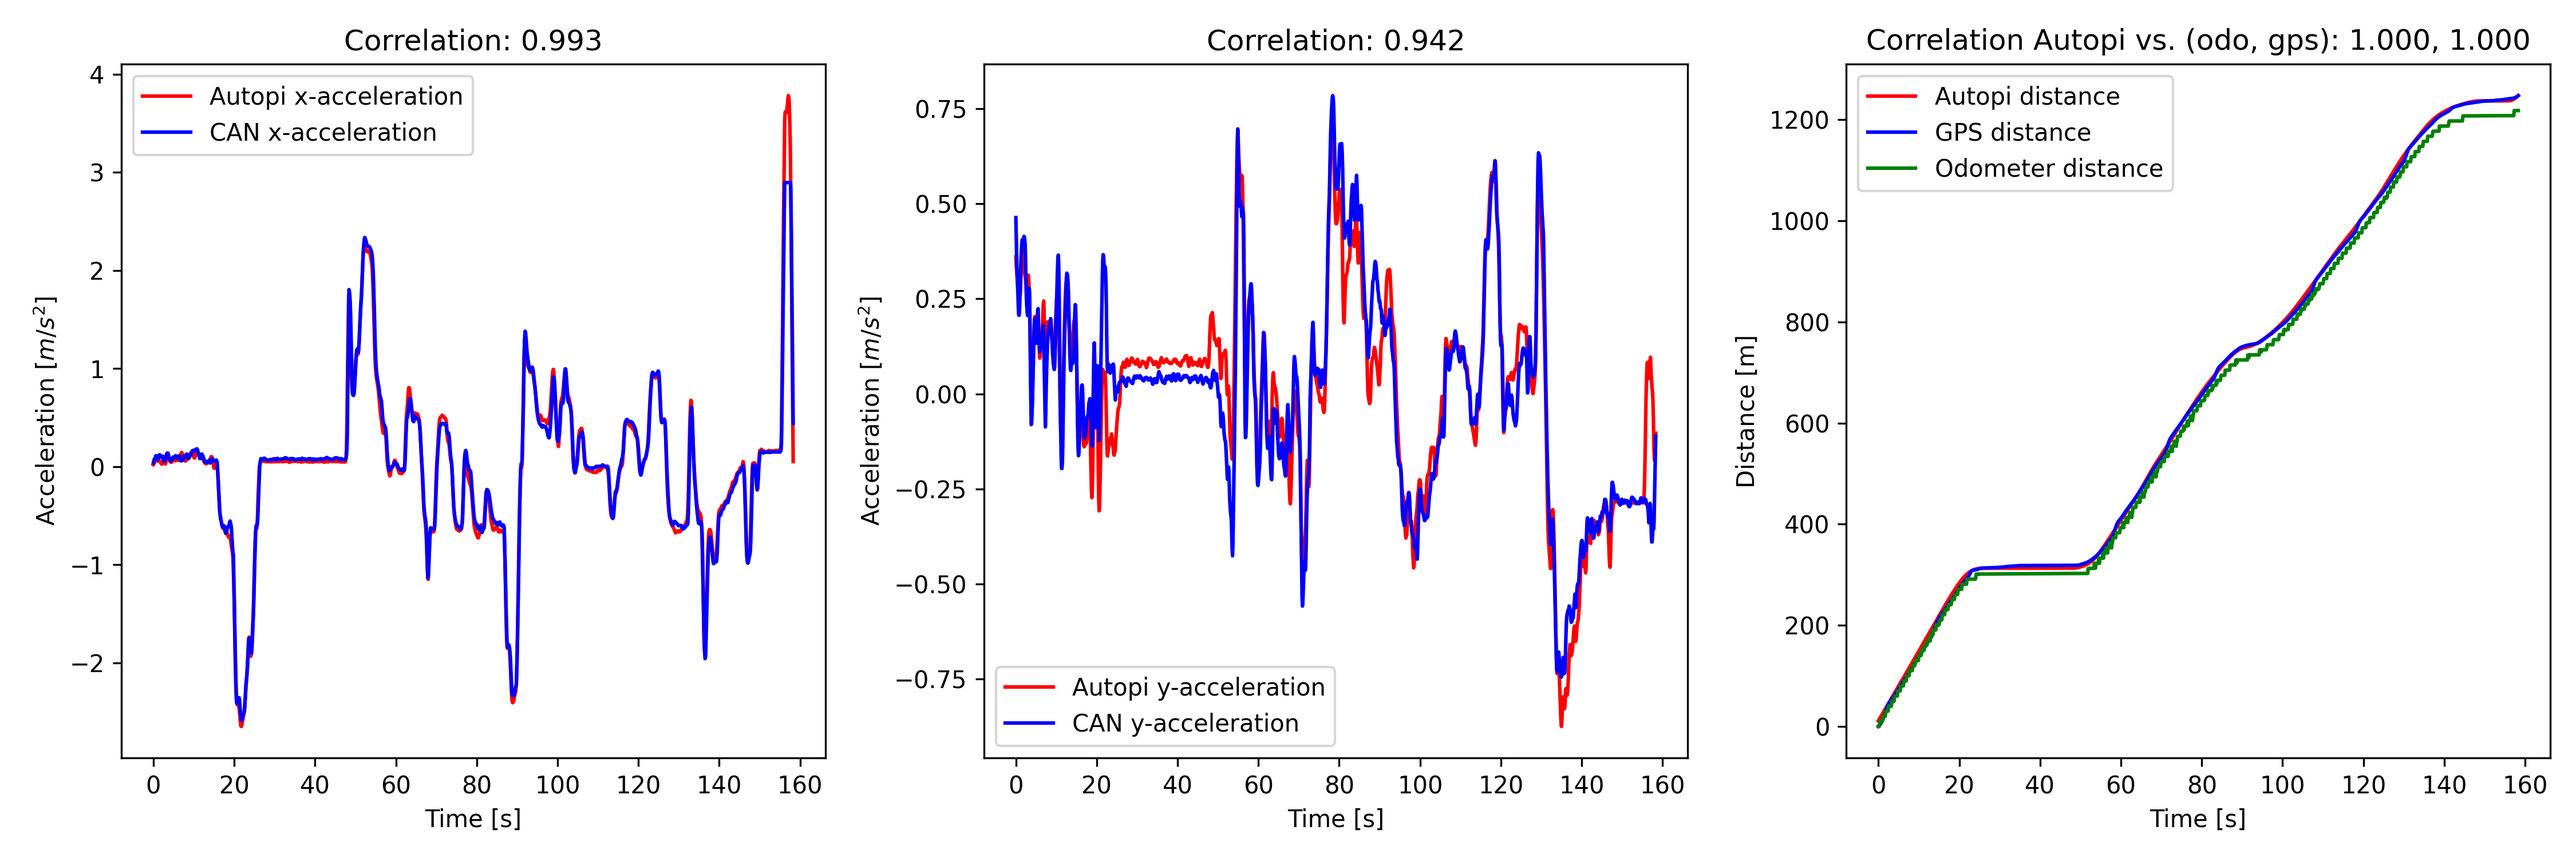
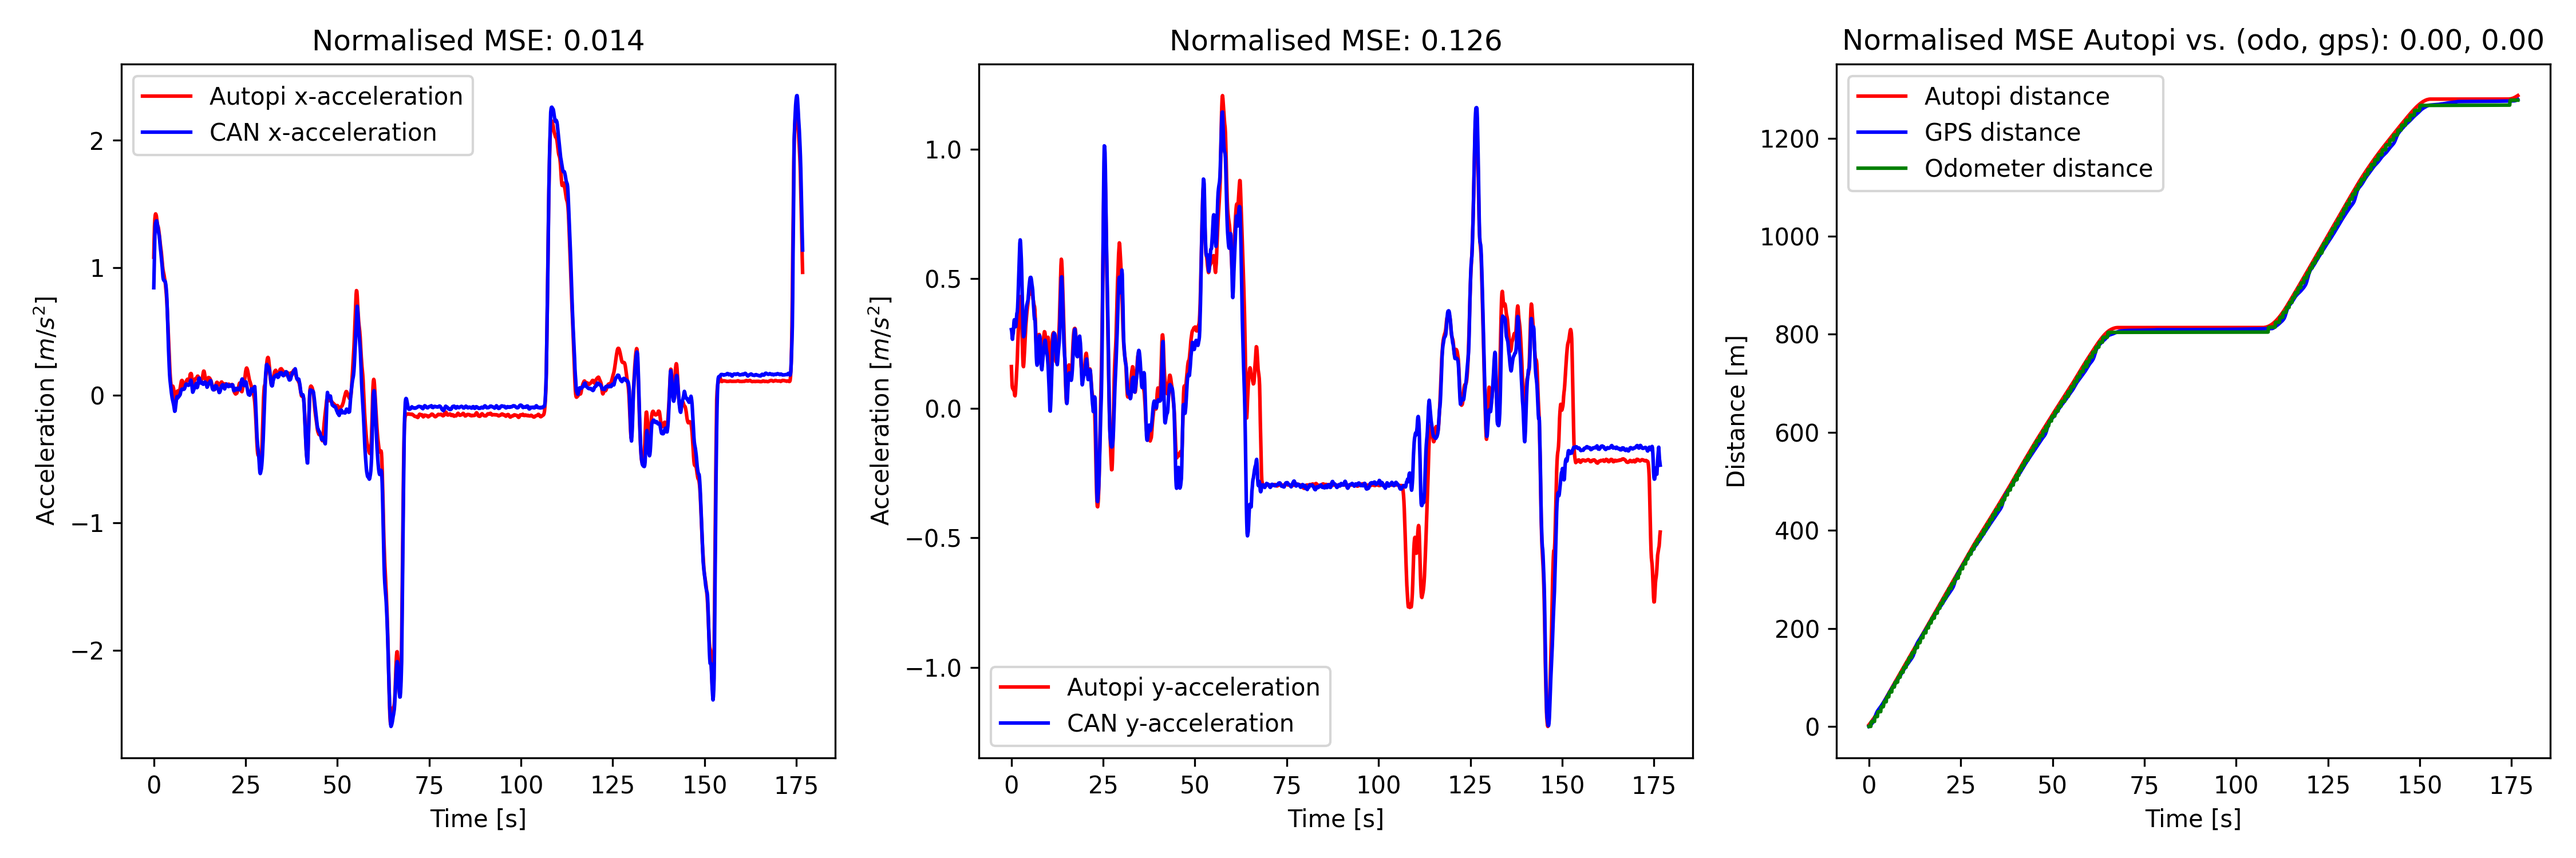
reorientation implemented

diff --git a/src/data/data_functions/validating.py b/src/data/data_functions/validating.py
@@ -78,14 +78,14 @@ def clean_int(tick: np.ndarray, response: np.ndarray, tick_int: np.ndarray) -> n
 
     return data_int
 
-def validate(hh: str = 'data/interim/gm/converted_platoon_CPH1_HH.hdf5', vh: str = 'data/interim/gm/converted_platoon_CPH1_VH.hdf5', threshold: float = 0.9, verbose: bool = False) -> None:
+def validate(hh: str = 'data/interim/gm/converted_platoon_CPH1_HH.hdf5', vh: str = 'data/interim/gm/converted_platoon_CPH1_VH.hdf5', threshold: float = 0.2, verbose: bool = False) -> None:
     """
     Validate the data by comparing the AutoPi data and the CAN data (car sensors)
 
     Parameters
     ----------
-    threshold : float (default 0.9)
-        The threshold for the correlation between the AutoPi and CAN data
+    threshold : float (default 0.2)
+        The threshold for the normalised MSE between the AutoPi and CAN data
     verbose : bool (default False)
         Whether to plot the data for visual inspection
     """
@@ -134,6 +134,23 @@ def plot_sensors(ax, time: np.ndarray, sensors: Iterable[np.ndarray], labels: It
     if title is not None:
         ax.set_title(title)
 
+def normalised_mse(x: np.ndarray, y: np.ndarray) -> float:
+    """
+    Calculate the normalised mean squared error between two signals.
+
+    Parameters
+    ----------
+    x : np.ndarray
+        The first signal
+    y : np.ndarray
+        The second signal
+
+    Returns
+    -------
+    float
+        The normalised mean squared error
+    """
+    return np.mean((x-y)**2) / np.mean(np.maximum(x**2, y**2))
 
 def validate_pass(car: h5py.Group, threshold: float, verbose: bool = False) -> None:
     """
@@ -145,7 +162,7 @@ def validate_pass(car: h5py.Group, threshold: float, verbose: bool = False) -> N
     car : h5py.Group
         The car data to validate
     threshold : float
-        The threshold for the correlation between the AutoPi and CAN data
+        The threshold for the normalised MSE between the AutoPi and CAN data
     verbose : bool
         Whether to plot the data for visual inspection
     """
@@ -177,7 +194,6 @@ def validate_pass(car: h5py.Group, threshold: float, verbose: bool = False) -> N
     taccrpi = car['acc.xyz'][:, 0]
     xaccrpi = car['acc.xyz'][:, 1] - np.mean(car['acc.xyz'][:, 1])
     yaccrpi = car['acc.xyz'][:, 2] - np.mean(car['acc.xyz'][:, 2])
-    zaccrpi = car['acc.xyz'][:, 3] - np.mean(car['acc.xyz'][:, 3])
 
     tatra = car['acc_trans'][:, 0]
     atra = car['acc_trans'][:, 1] - np.mean(car['acc_trans'][:, 1])
@@ -191,9 +207,8 @@ def validate_pass(car: h5py.Group, threshold: float, verbose: bool = False) -> N
     time = np.arange(0, tend, 1/fs)
 
     # Interpolate
-    axrpi_100hz = clean_int(taccrpi-time_start_max, xaccrpi, time)
-    ayrpi_100hz = clean_int(taccrpi-time_start_max, yaccrpi, time)
-    azrpi_100hz = clean_int(taccrpi-time_start_max, zaccrpi, time)
+    axrpi_100hz = clean_int(taccrpi-time_start_max, xaccrpi, time) * 9.81
+    ayrpi_100hz = clean_int(taccrpi-time_start_max, yaccrpi, time) * 9.81
     aycan_100hz = clean_int(tatra-time_start_max, atra, time)
     axcan_100hz = clean_int(talon-time_start_max, alon, time)
     dis_100hz   = clean_int(tspd-time_start_max, dspd, time)
@@ -201,70 +216,16 @@ def validate_pass(car: h5py.Group, threshold: float, verbose: bool = False) -> N
     lat_100hz   = clean_int(tgps-time_start_max, lat, time)
     odo_100hz   = clean_int(todo-time_start_max, odo, time)
 
-    # # Reorient accelerations
-    # alon = axcan_100hz.copy()
-    # atrans = aycan_100hz.copy()
-    # axpn = axrpi_100hz * 9.81
-    # aypn = ayrpi_100hz * 9.81
-    # azpn = azrpi_100hz * 9.81
-
-    # # Calculate correlation with CAN accelerations
-    # pcxl = np.corrcoef(axpn, alon)[0, 1]
-    # pcyl = np.corrcoef(aypn, alon)[0, 1]
-
-    # pcxt = np.corrcoef(axpn, atrans)[0, 1]
-    # pcyt = np.corrcoef(aypn, atrans)[0, 1]
-    
-    # # Determine the orientation of the sensors
-    # # NOTE: Here we also alter the entries in the original converted data if necessary!
-    # if (abs(pcxl) < abs(pcxt)) and (abs(pcyl) > abs(pcyt)):
-    #     if pcxt < 0:
-    #         axrpi_100hz = aypn
-    #         ayrpi_100hz = -axpn
-
-    #         # Update the car: h5py.Group to reflect the reorientation
-    #         warnings.warn("NOTE: Reorienting the autopi acceleration sensors as (x, y, z) -> (y, -x, z)")
-    #         y_acc = car['acc.xyz'][:, 2]                    
-    #         car['acc.xyz'][:, 2] = -car['acc.xyz'][:, 1]    # y = -x
-    #         car['acc.xyz'][:, 1] = y_acc                    # x = y
-
-    #     else:
-    #         axrpi_100hz = aypn
-    #         ayrpi_100hz = axpn
-
-    #         # Update the car: h5py.Group to reflect the reorientation
-    #         warnings.warn("NOTE: Reorienting the autopi acceleration sensors as (x, y, z) -> (y, x, z)")
-    #         y_acc = car['acc.xyz'][:, 2]
-    #         car['acc.xyz'][:, 2] = car['acc.xyz'][:, 1]    # y = x
-    #         car['acc.xyz'][:, 1] = y_acc                   # x = y
-    # else:
-    #     if pcyt < 0:
-    #         axrpi_100hz = axpn
-    #         ayrpi_100hz = -aypn
-
-    #         # Update the car: h5py.Group to reflect the reorientation
-    #         warnings.warn("NOTE: Reorienting the autopi acceleration sensors as (x, y, z) -> (x, -y, z)")
-    #         car['acc.xyz'][:, 2] = -car['acc.xyz'][:, 2]    # y = -y
-
-    #     else:
-    #         axrpi_100hz = axpn
-    #         ayrpi_100hz = aypn
-    
-    # # Update the acceleration sensors with the reoriented values
-    # axcan_100hz = alon
-    # aycan_100hz = atrans
-    # azrpi_100hz = azpn
-
     # ACCELERATION MEASURE
     #   x-acceleration
-    pcx = np.corrcoef(axrpi_100hz, axcan_100hz)[0, 1]
-    if pcx < threshold:
-        print(f"Correlation between Autopi and CAN x-acceleration sensors is below threshold: {pcx}")
+    x_err = normalised_mse(axrpi_100hz, axcan_100hz)
+    if x_err > threshold:
+        warnings.warn(f"Warning: Normalised MSE between Autopi and CAN x-acceleration sensors is above threshold: {x_err}")
 
     #   y-acceleration
-    pcy = np.corrcoef(ayrpi_100hz, aycan_100hz)[0, 1]
-    if pcy < threshold:
-        print(f"Correlation between Autopi and CAN y-acceleration sensors is below threshold: {pcy}")
+    y_err = normalised_mse(ayrpi_100hz, aycan_100hz)
+    if y_err > threshold:
+        print(f"Warning: Normalised MSE between Autopi and CAN y-acceleration sensors is above threshold: {y_err}")
     
     # DISTANCE MEASURE
     # Define distance as by the odometer and GPS
@@ -272,16 +233,16 @@ def validate_pass(car: h5py.Group, threshold: float, verbose: bool = False) -> N
     gps_dist = distance_gps(np.column_stack((lat_100hz, lon_100hz)))
 
     # Compute correlation between the two distance measures
-    pcgps = np.corrcoef(dis_100hz, gps_dist)[0, 1]
-    pcodo = np.corrcoef(dis_100hz, odo_dist)[0, 1]
-    if pcodo < threshold or pcgps < threshold:
-        print(f"Correlation between Autopi and CAN odo sensors or GPS distance is below threshold: {pcodo}, {pcgps}")
+    mse_gps = normalised_mse(dis_100hz, gps_dist)
+    mse_odo = normalised_mse(dis_100hz, odo_dist)
+    if mse_gps > threshold or mse_odo > threshold:
+        print(f"Warning: Normalised MSE between Autopi and CAN odo sensors or GPS distance is above threshold: {mse_odo}, {mse_gps}")
 
     if verbose:
         fig, axes = plt.subplots(1, 3, figsize=(15, 5))
-        plot_sensors(axes[0], time, sensors=[axrpi_100hz, axcan_100hz], labels=['Autopi x-acceleration', 'CAN x-acceleration'], styles=['r-', 'b-'], ylabel='Acceleration [$m/s^2$]', xlabel='Time [s]', title=f"Correlation: {pcx:.3f}")
-        plot_sensors(axes[1], time, sensors=[ayrpi_100hz, aycan_100hz], labels=['Autopi y-acceleration', 'CAN y-acceleration'], styles=['r-', 'b-'], ylabel='Acceleration [$m/s^2$]', xlabel='Time [s]', title=f"Correlation: {pcy:.3f}")
-        plot_sensors(axes[2], time, sensors=[dis_100hz, gps_dist, odo_dist], labels=['Autopi distance', 'GPS distance', 'Odometer distance'], styles=['r-', 'b-', 'g-'], ylabel='Distance [m]', xlabel='Time [s]', title=f"Correlation Autopi vs. (odo, gps): {pcodo:.3f}, {pcgps:.3f}")
+        plot_sensors(axes[0], time, sensors=[axrpi_100hz, axcan_100hz], labels=['Autopi x-acceleration', 'CAN x-acceleration'], styles=['r-', 'b-'], ylabel='Acceleration [$m/s^2$]', xlabel='Time [s]', title=f"Normalised MSE: {x_err:.3f}")
+        plot_sensors(axes[1], time, sensors=[ayrpi_100hz, aycan_100hz], labels=['Autopi y-acceleration', 'CAN y-acceleration'], styles=['r-', 'b-'], ylabel='Acceleration [$m/s^2$]', xlabel='Time [s]', title=f"Normalised MSE: {y_err:.3f}")
+        plot_sensors(axes[2], time, sensors=[dis_100hz, gps_dist, odo_dist], labels=['Autopi distance', 'GPS distance', 'Odometer distance'], styles=['r-', 'b-', 'g-'], ylabel='Distance [m]', xlabel='Time [s]', title=f"Normalised MSE Autopi vs. (odo, gps): {mse_odo:.2f}, {mse_gps:.2f}")
         plt.tight_layout()
         plt.show()
 

diff --git a/src/data/make_dataset.py b/src/data/make_dataset.py
@@ -58,7 +58,7 @@ if __name__ == '__main__':
     parser.add_argument('--begin-from', action='store_true', help='Start from specified mode (inclusive)')
     parser.add_argument('--speed-threshold', type=int, default=5, help='Speed threshold for segmenting data')
     parser.add_argument('--time-threshold', type=int, default=10, help='Time threshold for segmenting data')
-    parser.add_argument('--validation-threshold', type=float, default=0.8, help='Correlation threshold for validating data')
+    parser.add_argument('--validation-threshold', type=float, default=0.2, help='Normalised MSE threshold for validating data')
     parser.add_argument('--verbose', action='store_true', help='Print verbose output')
 
     args = parser.parse_args()

diff --git a/src/data/data_functions/converting.py b/src/data/data_functions/converting.py
@@ -217,7 +217,7 @@ def reorient_autopi_can(converted_file: h5py.Group) -> None:
     # Go through all the trips and passes in the converted file
     for trip_name, trip in (pbar := tqdm(converted_file['GM'].items())):
         for pass_name, pass_ in trip.items():
-            pbar.set_description(f"File: {converted_file.name}, Trip: {trip_name}, Pass: {pass_name}")
+            pbar.set_description(f"Orienting: {pass_.name}")
             reorient_pass(pass_)
 
 
